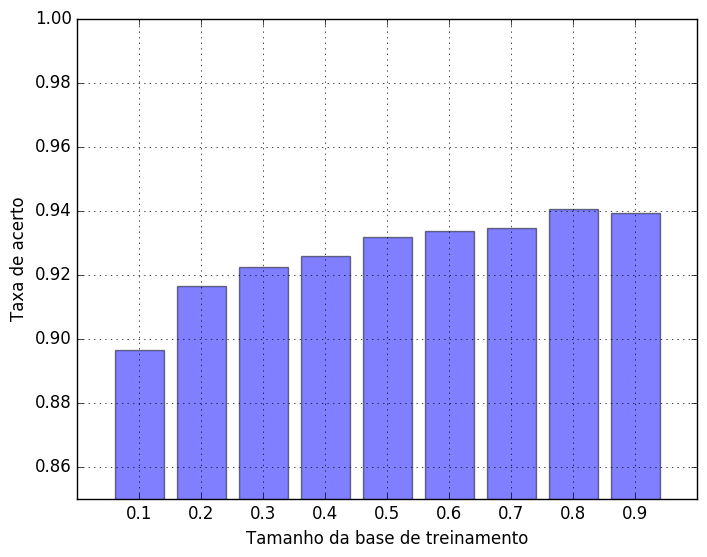
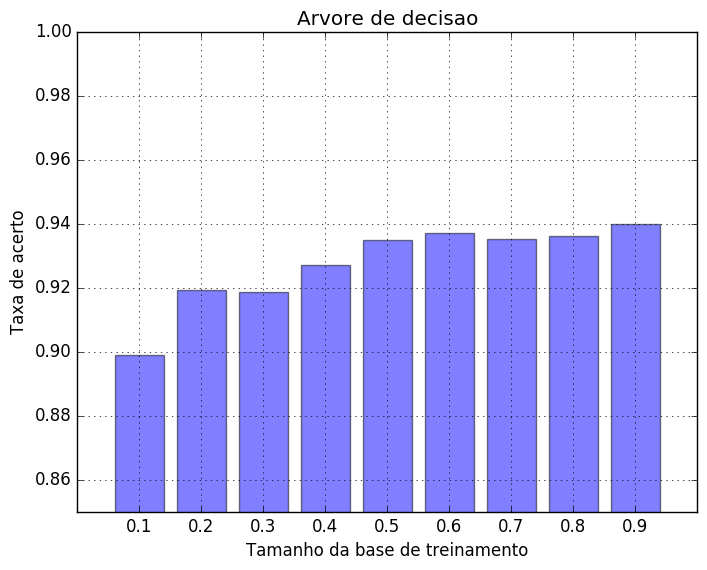
part1

diff --git a/trab1/part1/arvore.py b/trab1/part1/arvore.py
@@ -37,7 +37,7 @@ if __name__ == "__main__":
     plt.xticks(y_pos, sizes)
     plt.xlabel('Tamanho da base de treinamento')
     plt.ylabel('Taxa de acerto')
-    plt.title('')
+    plt.title('Arvore de decisao')
     plt.grid(True)
 
     plt.savefig('arvore_result.png', bbox_inches='tight')

diff --git a/trab1/part1/nb.py b/trab1/part1/nb.py
@@ -36,7 +36,7 @@ if __name__ == "__main__":
     plt.xticks(y_pos, sizes)
     plt.xlabel('Tamanho da base de treinamento')
     plt.ylabel('Taxa de acerto')
-    plt.title('')
+    plt.title('Naive Bayes')
     plt.grid(True)
 
     plt.savefig('nb_result.png', bbox_inches='tight')
